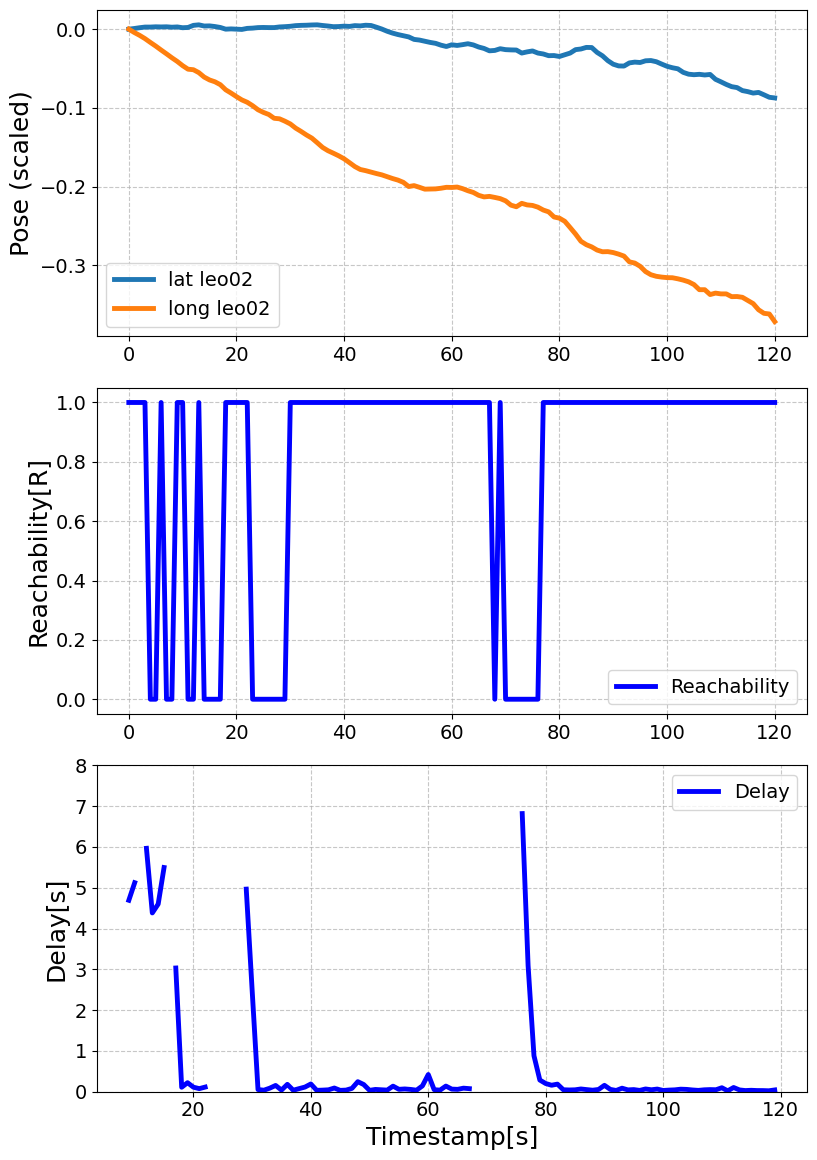
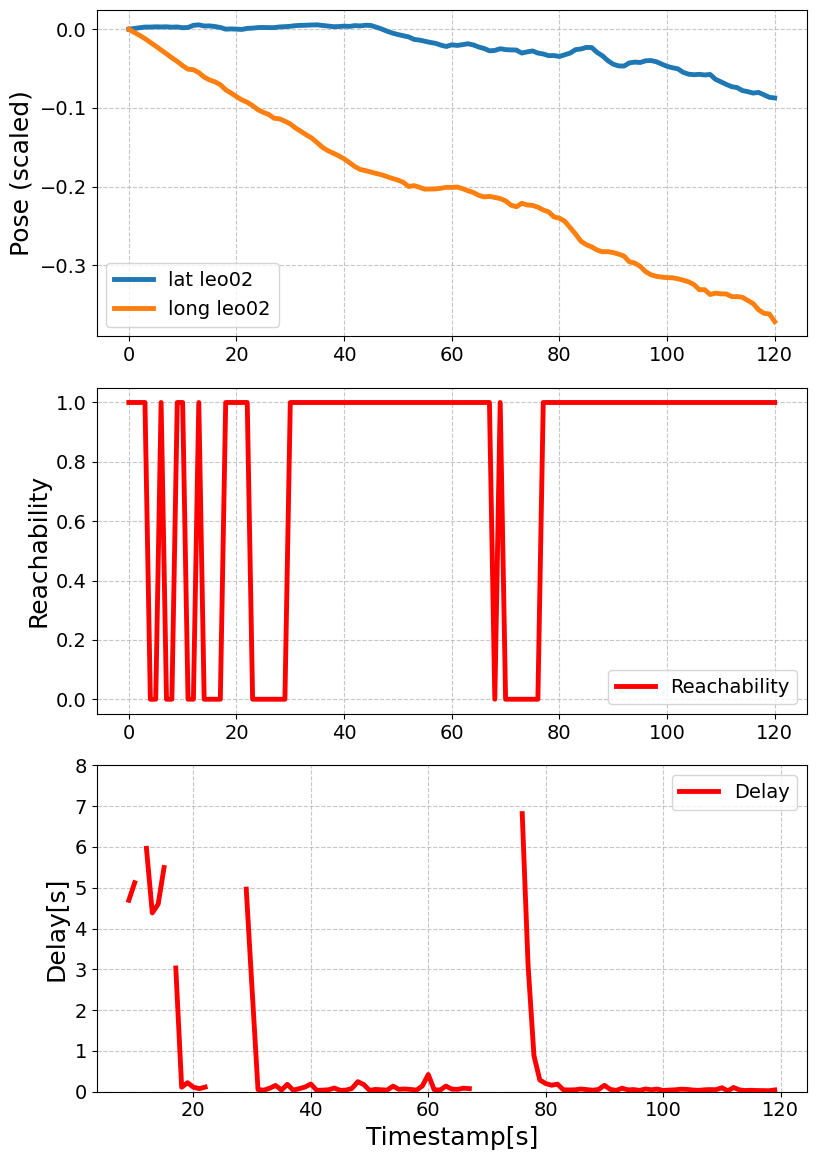
Final plots

diff --git a/data_analysis/plot_overview_one_rmw.py b/data_analysis/plot_overview_one_rmw.py
@@ -10,10 +10,13 @@ class DataPlotter:
         self.rmw = rmw
         if self.rmw == "fast":
             self.prefix = "fastrtps"
+            self.color = 'b'
         elif self.rmw == "cyclone":
             self.prefix = "cyclonedds"
+            self.color = 'r'
         elif self.rmw == "zenoh":
             self.prefix = "zenoh"
+            self.color = 'g'
         self.display_columns = ['LAT_leo02','LONG_leo02','Ping_target_local', 'Delay_local']
         self.base_path = os.path.expanduser("~") + base_path
         self.plot_variances = plot_variances
@@ -27,6 +30,7 @@ class DataPlotter:
         self.zenoh_data_original = None
         self.zenoh_data_variance = None
         self.timestamps = None
+        
 
     def load_data(self):
         if not self.use_run:
@@ -86,9 +90,9 @@ class DataPlotter:
             variance_ping = self.data_variance['Ping_target_local'].dropna().to_numpy()
             axs[1].fill_between(timestamps_np, data_ping - variance_ping, data_ping + variance_ping, alpha=0.2)
 
-        axs[1].plot(timestamps_np, data_ping, 'b', label="Reachability", linewidth=3.5)  # Increase line width
+        axs[1].plot(timestamps_np, data_ping, self.color, label="Reachability", linewidth=3.5)  # Increase line width
 
-        axs[1].set_ylabel("Reachability[R]", fontsize=18)  # Increase font size
+        axs[1].set_ylabel("Reachability", fontsize=18)  # Increase font size
         axs[1].tick_params(axis='both', which='major', labelsize=14)  # Increase tick label size
         axs[1].legend(fontsize=14)  # Increase legend font size
         axs[1].grid(True, linestyle='--', alpha=0.7)
@@ -99,7 +103,7 @@ class DataPlotter:
             variance_delay = self.data_variance['Delay_local'].dropna().to_numpy()
             axs[2].fill_between(timestamps_np, data_delay - variance_delay, data_delay + variance_delay, alpha=0.2)
 
-        axs[2].plot(timestamps_np, data_delay, 'b', label="Delay", linewidth=3.5)  # Increase line width
+        axs[2].plot(timestamps_np, data_delay, self.color, label="Delay", linewidth=3.5)  # Increase line width
         axs[2].set_ylim(0, 8)
         axs[2].set_ylabel("Delay[s]", fontsize=18)  # Increase font size
         axs[2].tick_params(axis='both', which='major', labelsize=14)  # Increase tick label size
